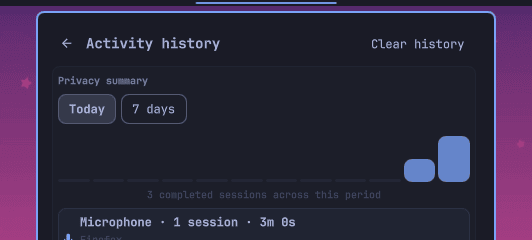
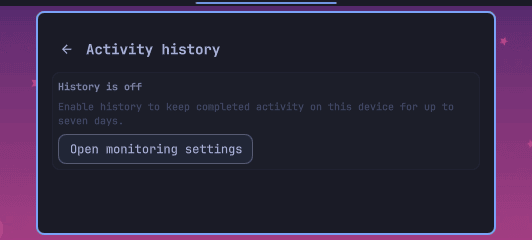
Fix disabled history screenshot capture (#59)
## Summary
- render capture-preview history state independently of stale popup
request state
- require exact enabled/disabled history acknowledgement before
retaining screenshots
- refresh the history-off screenshot and README cache key

## Evidence
- `npm test`
- live `scripts/capture-screenshots --report
/tmp/privacy-history-off-capture.json`
- capture postconditions: settings/history untouched, DND preserved,
workspace restored, shell unchanged
- Pages gallery checked in Chromium at 390x844, 1440x1000, and
2560x1200; History off selected, 532x240 source loaded, panel and image
contained, zero console/page errors

diff --git a/tests/runtime.test.js b/tests/runtime.test.js
@@ -367,13 +367,17 @@ assert.match(bar, /presentationScreen:\s*root\.QsWindow\.window[\s\S]*?presentat
   "bar render acknowledgements must use the window's actual output")
 assert.match(bar, /settingsSection:\s*view === "settings" \? globalSettingsSection : ""/,
   "bar render acknowledgements must describe the displayed navigation section")
+assert.match(bar, /historyEnabled:\s*historyPresentationEnabled[\s\S]*?onHistoryPresentationEnabledChanged:\s*Qt\.callLater\(publishCaptureBarPresentation\)/,
+  "bar render acknowledgements must track the displayed history state")
+assert.match(screenshotWorkflow, /history\) expected_view=history; expected_history_enabled=true[\s\S]*?history-disabled\) expected_view=history; expected_history_enabled=false[\s\S]*?expectedHistoryEnabled/,
+  "history captures must wait for their exact enabled or disabled presentation")
 assert.match(service, /capturePreviewBarSessions = Model\.sanitizeCaptureSessions\(root\.activeSessions, Date\.now\(\)\)/,
   "capture must freeze the real pre-capture bar sessions")
 assert.match(service, /capturePreviewSettings = Object\.assign\(\{\}, Model\.sanitizeSettings\(root\.settings\), previewSettings\)/,
   "capture must freeze the user's full sanitized presentation settings without overriding them")
 assert.match(bar, /barSourceItems:[\s\S]*?barItem\(kind\)[\s\S]*?visibleItems: barSourceItems/,
   "bar rendering must remain isolated from deterministic popup sample sessions")
-assert.match(runtimeSmoke, /requestedView = "history"[\s\S]*?captureHistoryPresentationEnabled = false[\s\S]*?historyPresentationEnabled[\s\S]*?sessionsFor\("camera"\)\.length !== 1/,
+assert.match(runtimeSmoke, /capturePreviewActive = true[\s\S]*?requestedView = "activity"[\s\S]*?captureHistoryPresentationEnabled = false[\s\S]*?historyPresentationEnabled[\s\S]*?sessionsFor\("camera"\)\.length !== 1/,
   "runtime smoke coverage must prove disabled-history rendering preserves bar preview sessions")
 assert.match(screenshotWorkflow, /capture_preview_state=.*[\s\S]*?current_preview_state=.*privacy-devices-capture-v2 state[\s\S]*?current_preview_state == "\$capture_preview_state"/,
   "every capture checkpoint must reject bar preview state drift")

diff --git a/BarWidget.qml b/BarWidget.qml
@@ -141,7 +141,7 @@ Panel {
   })
   readonly property var historySummaryRows: Model.historySummary(privacyService ? privacyService.displayHistory : [], durationNow, historySummaryWindow)
   readonly property var historyTrend: Model.historyTrend(privacyService ? privacyService.displayHistory : [], durationNow, historySummaryWindow, 12)
-  readonly property bool historyPresentationEnabled: privacyService && privacyService.capturePreviewActive && privacyService.requestedView === "history"
+  readonly property bool historyPresentationEnabled: privacyService && privacyService.capturePreviewActive
     ? privacyService.captureHistoryPresentationEnabled !== false : setting("historyEnabled", false) === true
   readonly property var editingSessions: editingKind && privacyService ? privacyService.attributedSessionsFor(editingKind) : []
   readonly property var editingDevices: Model.unique(editingSessions.map(function(session) { return String(session.device || "") }).filter(Boolean))
@@ -175,6 +175,7 @@ Panel {
       settingsPage: globalSettingsPage,
       settingsSection: view === "settings" ? globalSettingsSection : "",
       settingsScroll: view === "settings" ? navigationController.settingsScrollPosition : "",
+      historyEnabled: historyPresentationEnabled,
       ready: opened && !contentFlick.moving && (view !== "settings" || (settingsPageLoaded && pendingSettingsSection === "")),
       requestSerial: handledSettingsRequestSerial
     })
@@ -526,6 +527,7 @@ Panel {
   }
   onShowingGlobalSettingsChanged: Qt.callLater(publishCaptureBarPresentation)
   onShowingHistoryChanged: Qt.callLater(publishCaptureBarPresentation)
+  onHistoryPresentationEnabledChanged: Qt.callLater(publishCaptureBarPresentation)
   onGlobalSettingsPageChanged: Qt.callLater(publishCaptureBarPresentation)
   onGlobalSettingsSectionChanged: Qt.callLater(publishCaptureBarPresentation)
   onPendingSettingsSectionChanged: Qt.callLater(publishCaptureBarPresentation)

diff --git a/tests/qml/RuntimePluginSmokeTest.qml b/tests/qml/RuntimePluginSmokeTest.qml
@@ -51,7 +51,7 @@ ShellRoot {
     sharedService.capturePreviewBarSessions = []
     sharedService.capturePreviewActive = true
     if (!widget.showIdle || sharedService.displayHistory.length !== 1 || sharedService.sessionsFor("camera").length !== 1 || sharedService.barActive("camera")) throw new Error("capture preview did not preserve presentation settings")
-    sharedService.requestedView = "history"
+    sharedService.requestedView = "activity"
     sharedService.captureHistoryPresentationEnabled = false
     if (widget.historyPresentationEnabled || !widget.showIdle || sharedService.sessionsFor("camera").length !== 1)
       throw new Error("disabled-history view changed the immutable bar preview")

diff --git a/tests/qml/RuntimeHistoryViewTest.qml b/tests/qml/RuntimeHistoryViewTest.qml
@@ -88,6 +88,7 @@ ShellRoot {
           if (widget.confirmationPending !== "history") throw new Error("history clear did not require confirmation")
           widget.showActivity()
           if (widget.confirmationPending !== "") throw new Error("leaving history did not cancel destructive confirmation")
+          service.requestedView = "activity"
           service.captureHistoryPresentationEnabled = false
           widget.showHistory()
           Qt.callLater(function() {

diff --git a/README.md b/README.md
@@ -36,7 +36,7 @@ Activity notifications use the detected application icon when available:
 | Individual device settings | Activity history |
 | <img src="docs/device.png?v=99a96937055a" alt="Individual privacy-device settings page" width="360"> | <img src="docs/history.png?v=1ef5c5219702" alt="Completed privacy activity history view" width="360"> |
 | History disabled | |
-| <img src="docs/history-disabled.png?v=c2b66980df44" alt="Activity history disabled state" width="360"> | |
+| <img src="docs/history-disabled.png?v=74b0876b9c4e" alt="Activity history disabled state" width="360"> | |
 
 </details>
 
